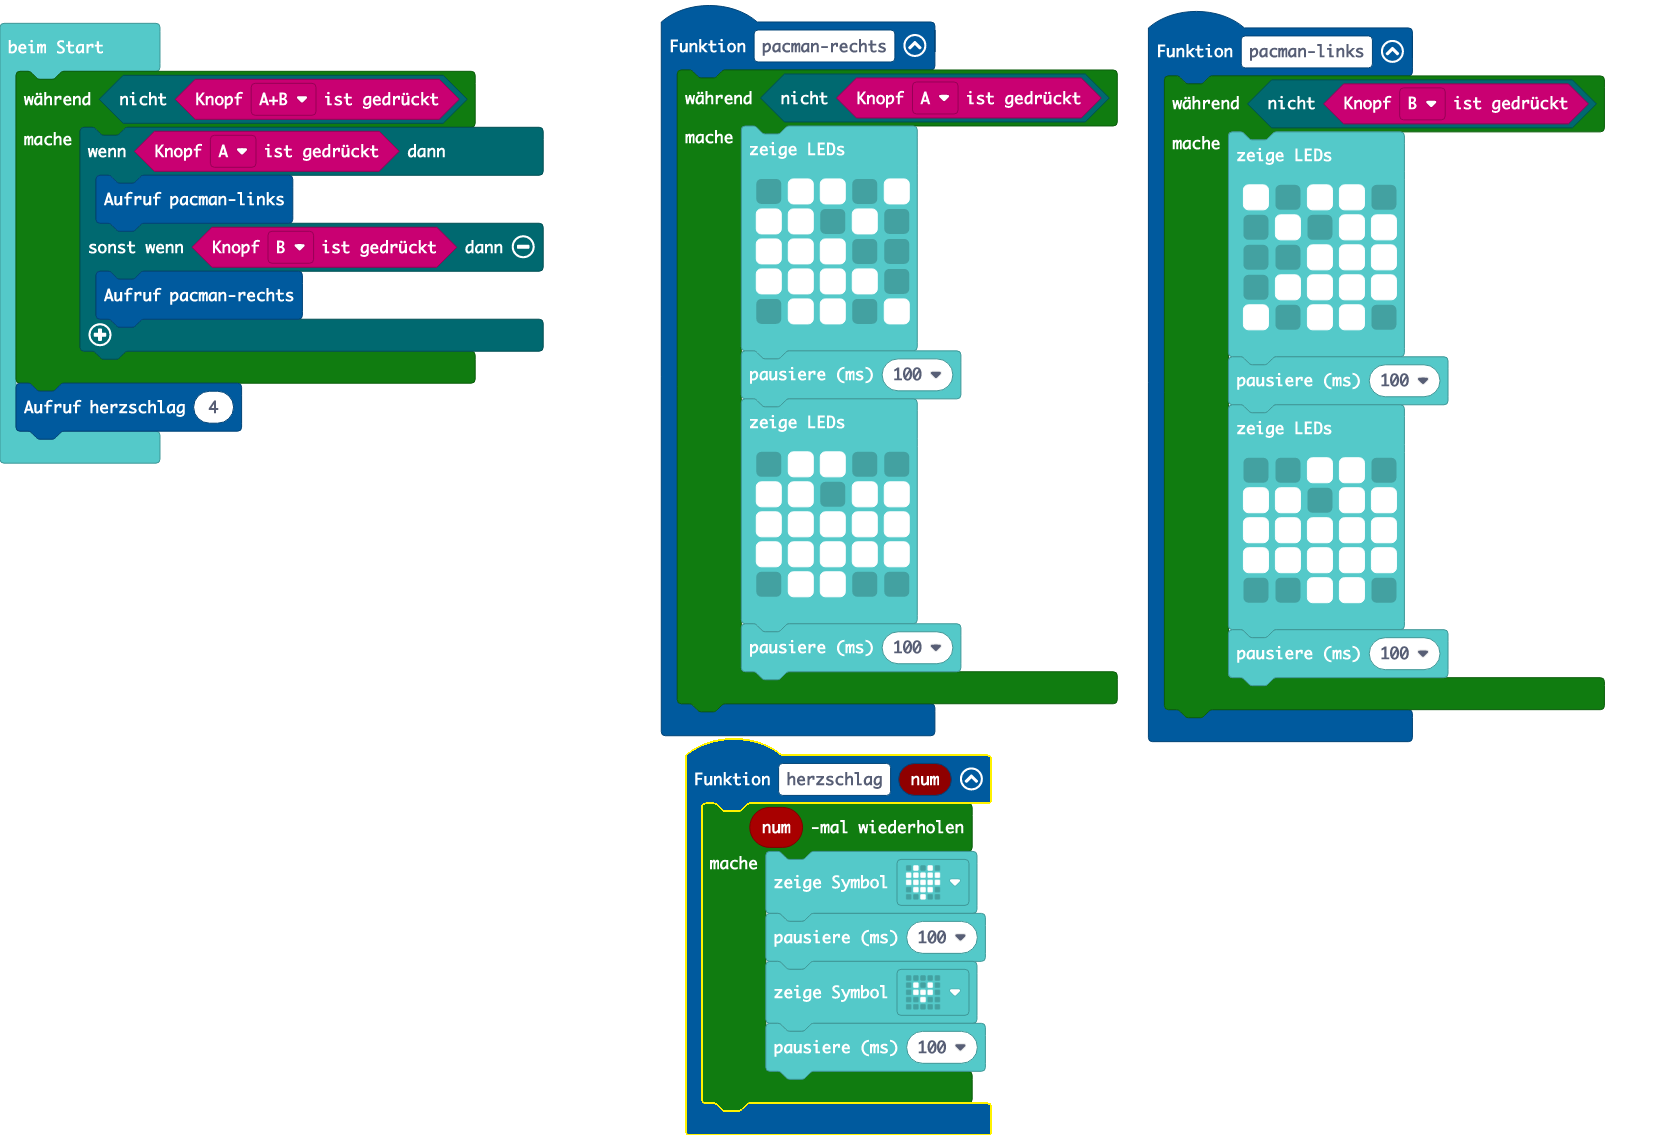
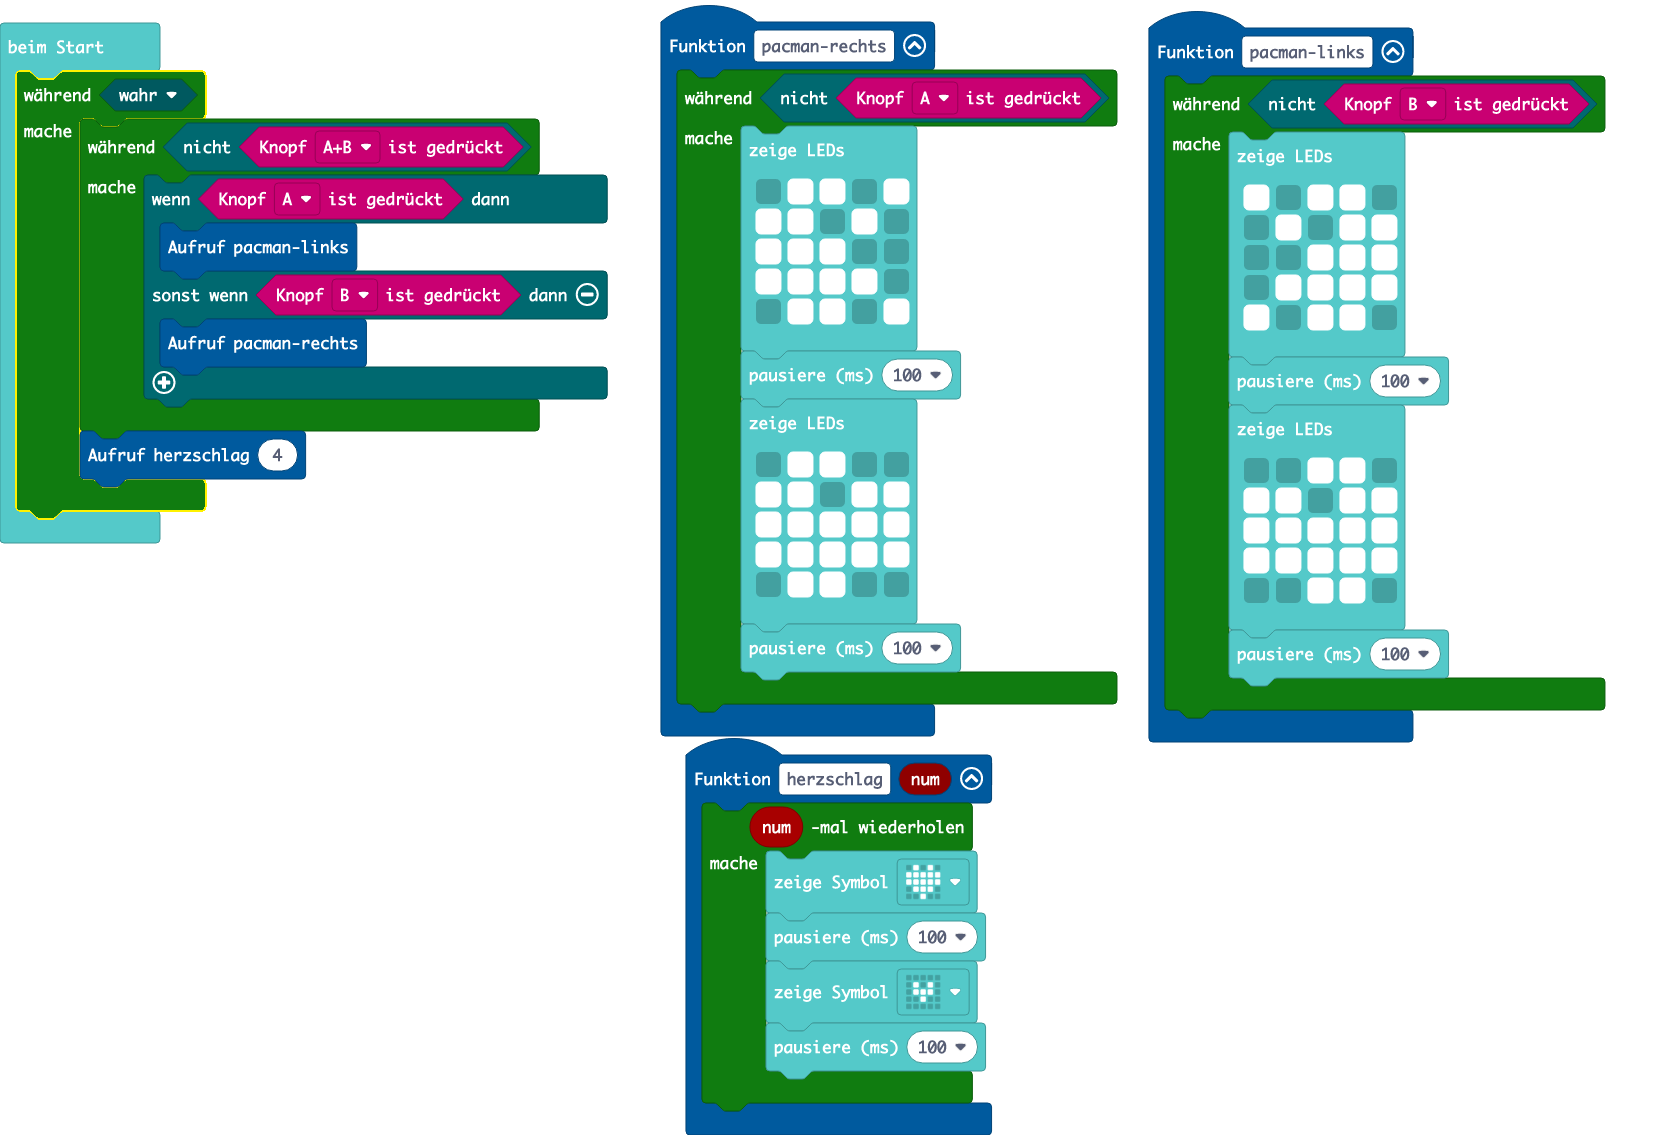
Aktualisiere main.blocks, main.ts

diff --git a/main.ts b/main.ts
@@ -46,11 +46,13 @@ function pacmanrechts () {
         basic.pause(100)
     }
 }
-while (!(input.buttonIsPressed(Button.AB))) {
-    if (input.buttonIsPressed(Button.A)) {
-        pacmanlinks()
-    } else if (input.buttonIsPressed(Button.B)) {
-        pacmanrechts()
+while (true) {
+    while (!(input.buttonIsPressed(Button.AB))) {
+        if (input.buttonIsPressed(Button.A)) {
+            pacmanlinks()
+        } else if (input.buttonIsPressed(Button.B)) {
+            pacmanrechts()
+        }
     }
+    herzschlag(4)
 }
-herzschlag(4)
